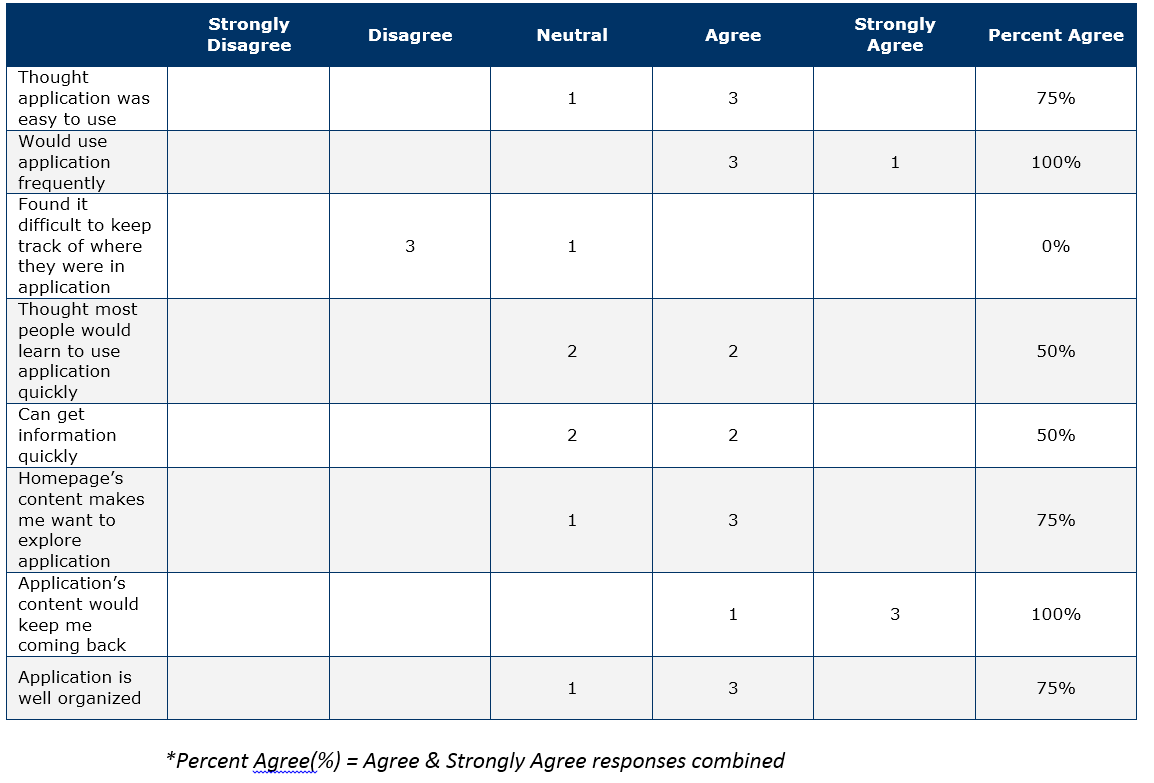
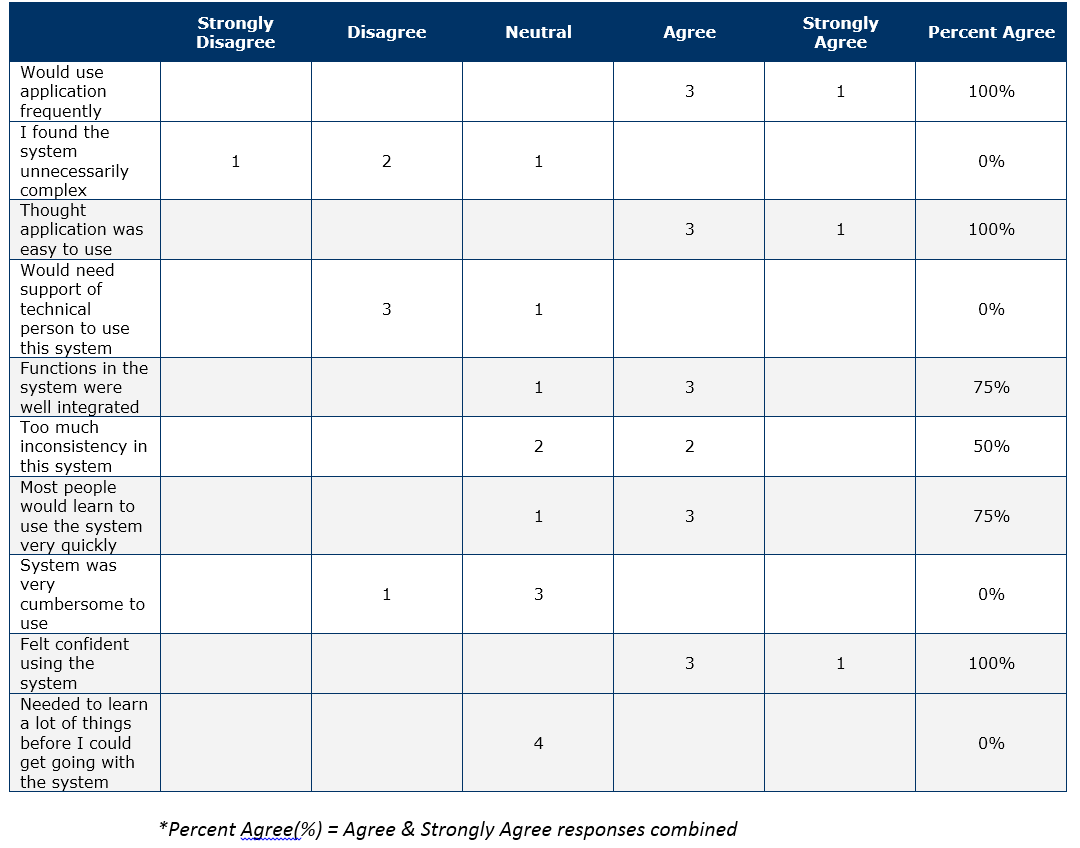
Mer eller mindre ferdig med usability for now

diff --git a/Report/usability.tex b/Report/usability.tex
@@ -11,6 +11,7 @@ In this section we will describe the results and observations gained through usa
 The usability test was conducted on four participants. User-interaction with the PeacefulBanana was done through an Internet Browser. Users answered an entrance questionnaire, in order to collect demographic information. During the usability test we took notes of the user's problems and concerns. When the test was completed, participants could comment with suggestions on improvement of the application or design. Finally we had participants answer a SUS form, which consisted of 10 questions designed to measure user satisfaction. 
 
 \subsection{Context}
+\label{subsec:context}
 The usability test simulated the two scenarios identified in Section \ref{sec:scenarios} and was set in the context of these. We conducted the usability test in order to answer several important questions, regarding these scenarios: 
 \begin{itemize}
 	\item Is the application easy to use, and can users achieve their goals in a timely manner?
@@ -153,16 +154,15 @@ In order to analyze collected data from the usability test, identified issues we
 \subsubsection{Impact}
 \subsubsection{Frequency}
 	\begin{itemize}
-		\item High: 40\% or more of the participants experience the problem.
-		\item Moderate: 20\% - 39\% of participants experience the problem.
-		\item Low: 20\% or fewer of the participants experience the problem
+		\item High: 40\% or more of the participants experienced the problem.
+		\item Moderate: 20\% - 39\% of participants experienced the problem.
+		\item Low: 20\% or fewer of the participants experienced the problem
 	\end{itemize}
 \subsubsection{Problem Severity Classification}
 	\begin{itemize}
-		\item Severity 1: High impact problems that often prevent a user from correctly completing a task. Reward for resolution is reduced redevelopment costs.
-		\item Severity 2: Moderate to high frequency problems with moderate to low impact are typical of erroneous actions that the participant recognizes needs to be undone. Reward for resolution is typically exhibited in reduced time on task.
-		\item Severity 3: Either moderate problems with low frequency or low problems with moderate frequency; these are minor annoyance problems faced by a number of participants. Reward for resolution is typically exhibited in reduced time on task and increased data
-		\item Severity 4: Low impact problems faced by few participants; there is low risk to not resolving these problems. Reward for resolution is typically exhibited in increased user satisfaction.
+		\item High severity: High impact problems that often prevent a user from correctly completing a task. Reward for resolution is reduced redevelopment costs.
+		\item Medium severity: Either moderate problems with low frequency or low problems with moderate frequency; these are minor annoyance problems faced by a number of participants. Reward for resolution is typically exhibited in reduced time on task and increased data
+		\item Low severity: Low impact problems faced by few participants; there is low risk to not resolving these problems. Reward for resolution is typically exhibited in increased user satisfaction.
 	\end{itemize}
 
 \section{Usability Test Results}
@@ -171,12 +171,11 @@ After finalizing the usability test plan: Appendix \ref{chap:usability}, a pilot
 It also allows the "tester" to practice the execution and guidance, before actually performing the tests. \\
 In the pilot test for PeacefulBanana, all of the aspects above were evaluated and a few tweaks were made to the tests, making it more streamlined. Also a few, smaller bugs in the application were discovered and fixed. The test introduction was rewritten, since the pilot-tester showed some confusion in a few of the tasks. 
 The findings acted as valuable feedback to our delivery cycle, and were used for improving the design of the application. 
-\section{Introduction}
+
+\section{Summary}
 We conducted an onsite usability test using a production version of PeacefulBanana, located on the test administrator’s local server. One tester took notes of comments, facial expressions and navigation choices.The administrator acted as guidance during the test. The sessions captured each participant’s navigational choices, task completion rates, comments, overall satisfaction ratings, questions and feedback.
-\section{Executive Summary}
-We conducted an onsite usability test at a private lab-room at NTNU on November 10th. The purpose of the test was to assess the usability of the web application design, information flow, information architecture and the effects of sharing personal reflection notes.
+The usability test was conducted in a private lab-room at NTNU on November 10th. The purpose of the test was to assess the usability of the web application design, information flow, information architecture and the effects of sharing personal reflection notes.
 Four participants attended the test. Typically, three to five test participants is the optimal number for most usability studies\cite{nielsen1993mathematical}. Each individual session lasted approximately twenty minutes.
-% In general ditt og datt , sammendrag av resultatene
 This section contains the participant feedback, satisfactions ratings, task completion rates, ease or difficulty of completion ratings, time on task, errors, and recommendations for improvements.
 \subsection{Presentation of results}
 \subsubsection{Task Completion Success Rate}
@@ -249,23 +248,59 @@ Low completion rate, occurance of critical-errors and high time on task are high
     \caption{Summary of Data}
     \label{datasummary}
 \end{figure}
+
 \subsubsection{Overall Metrics}
-After completing the usability session, participants rated the site for eight overall measures. These can be seen in Figure: \ref{posttaskoverall}. \\
-All participants agreed(i.e., agree or strongly agree) that they would use the application frequently and that the application's content would keep them coming back. The majority of the participants(75\%) agreed they thought the application was easy to use, that the homepage content encouraged them to explore further and that the application was well organized. Half of the participants felt that most people would learn the application quickly and that information was quickly apprehended. Lastly none of the participants agreed that it was difficult to keep track of where they were in the application. 
+After completing the usability session, participants were given a \emph{System Usability Scale} form to answer\cite{brooke1996sus}. These can be seen in Figure: \ref{posttaskoverall}. \\
+
+All participants agreed(i.e., agree or strongly agree) that they would use the application frequently and that the application was easy to use. All participants(100\%) also felt confident when using the application. The majority of the participants(75\%) felt the functions in the application were well integrated, and that most people would learn to use the system very qucikly. Half of the participants(50\%) agreed that there were inconsistencies in the system. None of the participants(0\%) found the system unnecessarily complex or that it was cumbersome to use. Further none of the participants felt users would need support of a technical person to use the system(based on the intended usergroup) or that they needed to learn a lot before getting going with the system. The participants mentioned the quickstart guide as a possible look-to document in case of trouble.  
 \begin{figure}[h!]
     \centering
         \includegraphics[width=\textwidth]{posttaskoverall}
     \caption{Post task}
     \label{posttaskoverall}
 \end{figure}
-Upon completion of the tasks, participants provided feedback for what they liked the most and least about the application, and recommendations for improving the application. \\
+
+\subsubsection{Reflection and sharing}
+\label{subsubsec:reflection}
+Participants were also asked to answer the questions identified in \ref{subsec:context}
+\begin{itemize}
+	\item Is the application easy to use, and can users achieve their goals in a timely manner?
+\end{itemize}
+Feedback here was that participants were satisfied with the ease of use as can be seen above, also time-on-task show that participants were mostly quite similar in the solving of tasks, and very few spikes. 
+\begin{itemize}
+	\item Identify the relationship users have with the aspect of reflection and sharing personal experiences.
+\end{itemize}
+On this context, participants answered that reflecting on their experiences is something they often do, but they don't collect them and thus forgets exactly what the experience was about. The application helped solve this problem by prompting and allowing users to reflect and then store it for later use. \\
+When it comes to sharing, all participants were positive to this, although they strongly emphasized the need for an \emph{unshare} functionality. The missing ability to unshare these notes afterhand could make them reluctant to share them in the first place, since when first shared it was always shared. One participant mentioned the possibility of letting notes be editable and share/unshareable for a specific time period, f.ex 24 hours, where afterwards they would be locked for editing.  
+\begin{itemize}
+	\item Does the tool present data in a way that triggers reflection for the user?
+\end{itemize}
+Participants responded that the tag-cloud and questions in the daily reflection note triggered them to reflect on experiences. Actually reading the questions in their mind, helped them to reflect on the experiences, instead of just having an empty text-field could lead to random thoughts beeing collected and not actually triggering reflection. The commit impact graph was mentioned as less-helpful as it didn't really justify the amount of work done. 
+	
+Participants also provided feedback for what they liked the most and least about the application, and recommendations for improving the application. \\
 \subsubsection*{Most liked}
 The participants liked the design of the application and that it was able to synchronize with their GitHub repositories automatically, without them having to worry about it. The personal tag-cloud and the ability to compare it directly with the team's tagcloud was also a joint feedback.
 \subsubsection*{Least liked}
 Participants commented that the way notifications were given was not optimal, and the registration process was a bit tedious.
 \subsubsection{Recommendations}
-The recommendations section provides recommended changes and justifications driven by the participant success rate, behaviors, and comments. The identified recommendations will improve the overall ease of use and address the areas where participants experienced problems or found the interface/information architecture unclear.
+In addition to the feedback gathered from section \ref{subsubsec:reflection} above this section provides recommended changes and justifications driven by the participant success rate, behaviors, and comments. The identified recommendations will improve the overall ease of use and address the areas where participants experienced problems or found the interface/information architecture unclear.
 Feedback on recommendations on improvement was primarily to streamline the registration process. Also the participants commented that issues connected to a specific milestone, should be more visibly separated from issues connected to the whole repository. \\
+
+\subsubsection*{Add unshare functionality}
+\begin{figure}[h!]
+    \centering
+        \includegraphics[width=\textwidth]{unshareimprovement}
+    \caption{Adding unshare functionality to reflection notes.}
+    \label{unshareimprovement}
+\end{figure}
+
+\subsubsection*{Remove commit impact}
+\begin{figure}[h!]
+    \centering
+        \includegraphics[width=\textwidth]{commitimprovement}
+    \caption{Adding unshare functionality to reflection notes.}
+    \label{commitimprovement}
+\end{figure}
 
 \subsubsection*{Task 1: Start application, login, link account with GitHub and set an active repository. } 
 \begin{figure}[h!]
@@ -305,7 +340,5 @@ Feedback on recommendations on improvement was primarily to streamline the regis
 
 \subsection{Conclusion}
 % Noe mer?
-Most of the participants found the PeacefulBanana application to be well-organized, comprehensive, clean and uncluttered, very useful, and easy to use. Having an application to handle reflection in their daily work is to many if not all of the participants. Implementing the recommendations and further feedback from users will ensure a continued user-friendly application.
-% Skriv litt om de to med høy time on task men ingen critical errors, si at det er noe vi skal se på men ikke får gjort så mye med. 
-% Usability test results: Skrive hvordan de svarte på spørsmålene i test-planen, hvordan det gikk. Evt problemer identifisert og at vi da endret disse tingene/designet på bakgrunn av feedbacken. 
-% Refleksjonsfeedback: Hvordan var det å skrive ned refleksjonene sine om erfaringene, og hvordan er det å dele de med andre? Mer diagrammer hvis nødvendig. 
+Most of the participants found the PeacefulBanana application to be well-organized, comprehensive, clean and uncluttered, very useful, and easy to use. Having an application to handle reflection in their daily work is to many if not all of the participants. Implementing the recommendations and further feedback from users will ensure a continued user-friendly application.\\
+While some tasks had a high time-on-task, this was due to GitHub data collection, and is not something we have control over. It is a simple request to the GitHub API, which we need to receive before continuing. 
